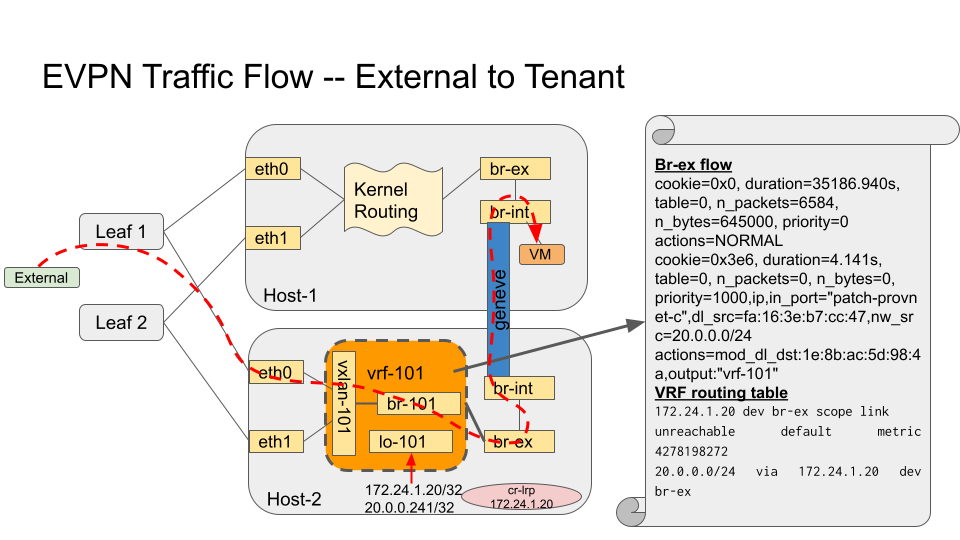
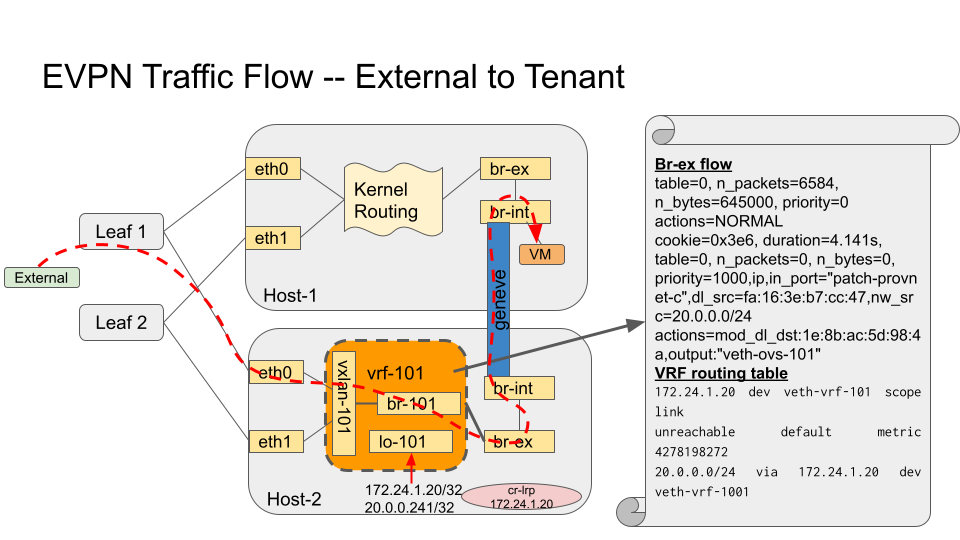
Update EVPN Mode documentation

Changed region(s): [[0.6562, 0.2963, 0.9688, 0.9185], [0.8438, 0.8593, 0.9062, 0.8889], [0.9375, 0.8593, 0.9688, 0.8889]]

diff --git a/doc/source/contributor/evpn_mode_design.rst b/doc/source/contributor/evpn_mode_design.rst
@@ -314,23 +314,37 @@ To do that it needs to:
         '''
 
 3. Connect EVPN to OVN overlay so that traffic can be redirected from the node
-   to the OVN virtual networking. It needs to:
+   to the OVN virtual networking. It needs to connect the VRF to the OVS
+   provider bridge:
 
-   - Attach the VRF device to the OVS provider bridge (e.g., br-ex)
+   - Create veth device and attach one end to the OVS provider bridge, and the
+     other to the vrf:
 
      .. code-block:: ini
 
-        ovs-vsctl add-port br-ex vrf-1001
+        ip link add veth-vrf type veth peer name veth-ovs
+        ovs-vsctl add-port br-ex veth-ovs
+        ip link set veth-vrf master vrf-1001
+        ip link set up dev veth-ovs
+        ip link set up dev veth-vrf
+
+   - Or the equivalent steps (vlan device) for the vlan provider network cases:
+
+     .. code-block:: ini
+
+        ovs-vsctl add-port br-vlan br-vlan-1001 tag=ID -- set interface br-vlan-1001 type=internal
+        ip link set br-vlan-1001 up
+        ip link set br-vlan-1001 master vrf-1001
 
    - Add route on the VRF routing table for both the router gateway port IP
      and the subnet CIDR so that the traffic is redirected to the OVS provider
-     bridge (e.g., br-ex)
+     bridge (e.g., br-ex) through the veth/vlan device
 
      .. code-block:: ini
 
         $ ip route show vrf vrf-1001
-        10.0.0.0/26 via 172.24.4.146 dev br-ex
-        172.24.4.146 dev br-ex scope link
+        10.0.0.0/26 via 172.24.4.146 dev veth-vrf-1001|br-vlan-1001
+        172.24.4.146 dev veth-vrf-1001|br-vlan-1001 scope link
 
 4. Add needed OVS flows into the OVS provider bridge (e.g., br-ex) to redirect
    the traffic back from OVN to the proper VRF, based on the subnet CIDR and
@@ -338,7 +352,7 @@ To do that it needs to:
 
    .. code-block:: ini
 
-      $ ovs-ofctl add-flow br-ex cookie=0x3e7,priority=1000,ip,in_port=1,dl_src:ROUTER_GATEWAY_PORT_MAC,nw_src=SUBNET_CIDR, actions=mod_dl_dst:BR_EX_MAC,output=VRF_PORT
+      $ ovs-ofctl add-flow br-ex cookie=0x3e7,priority=1000,ip,in_port=1,dl_src:ROUTER_GATEWAY_PORT_MAC,nw_src=SUBNET_CIDR, actions=mod_dl_dst:VETH|VLAN_MAC,output=VETH|VLAN_PORT
 
 5. Add IPs to expose to VRF associated dummy device. This interface is only
    used for the purpose of exposing the IPs, but not meant to receive the
@@ -423,14 +437,14 @@ default routing table (action=NORMAL). To that end, the next rule is added:
 
 .. code-block:: ini
 
-   cookie=0x3e6, duration=4.141s, table=0, n_packets=0, n_bytes=0, priority=1000,ip,in_port="patch-provnet-c",dl_src=fa:16:3e:b7:cc:47,nw_src=20.0.0.0/24 actions=mod_dl_dst:1e:8b:ac:5d:98:4a,output:"vrf-101"
+   cookie=0x3e6, duration=4.141s, table=0, n_packets=0, n_bytes=0, priority=1000,ip,in_port="patch-provnet-c",dl_src=fa:16:3e:b7:cc:47,nw_src=20.0.0.0/24 actions=mod_dl_dst:1e:8b:ac:5d:98:4a,output:"veth-ovs-101"
 
 It matches the traffic coming from the router gateway port (cr-lrp port) from
 br-int (in_port="patch-provnet-c"), with the MAC address of the router gateway
 port (dl_src=fa:16:3e:b7:cc:47) and from the exposed network (nw_src=20.0.0.0/24).
-For that case it changes the MAC by the br-ex device one
+For that case it changes the MAC by the veth-vrf-101 device one
 (mod_dl_dst:1e:8b:ac:5d:98:4a), and redirect the traffic to the vrf device
-(output:"vrf-101").
+through the veth/vlan device (output:"veth-ovs-101").
 
 
 Agent deployment
